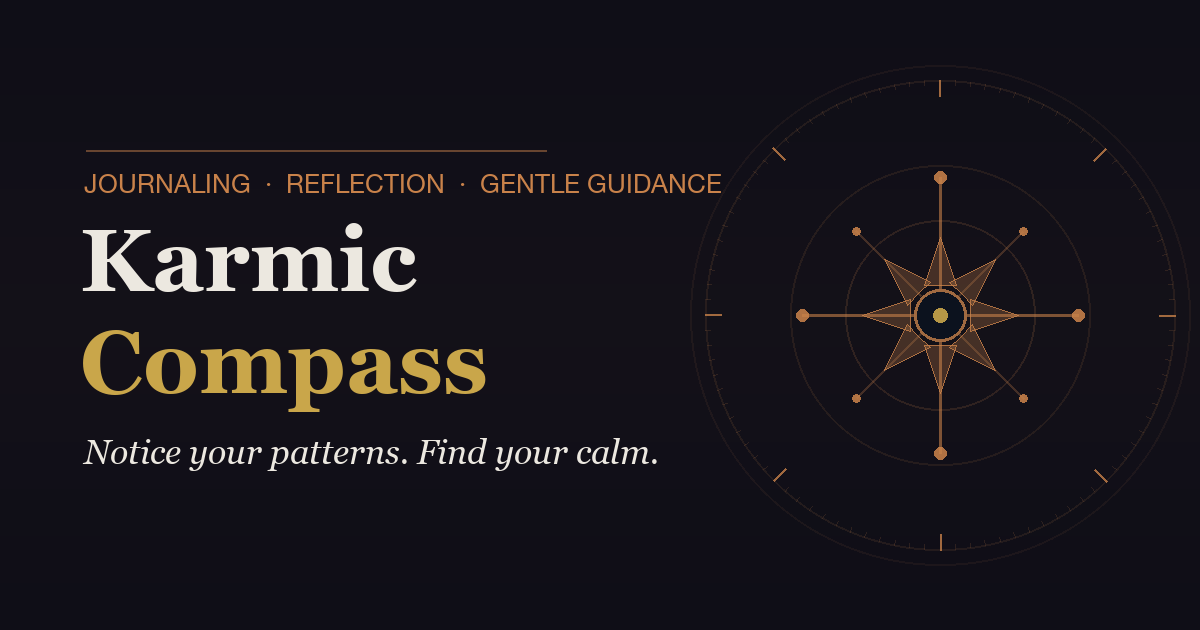
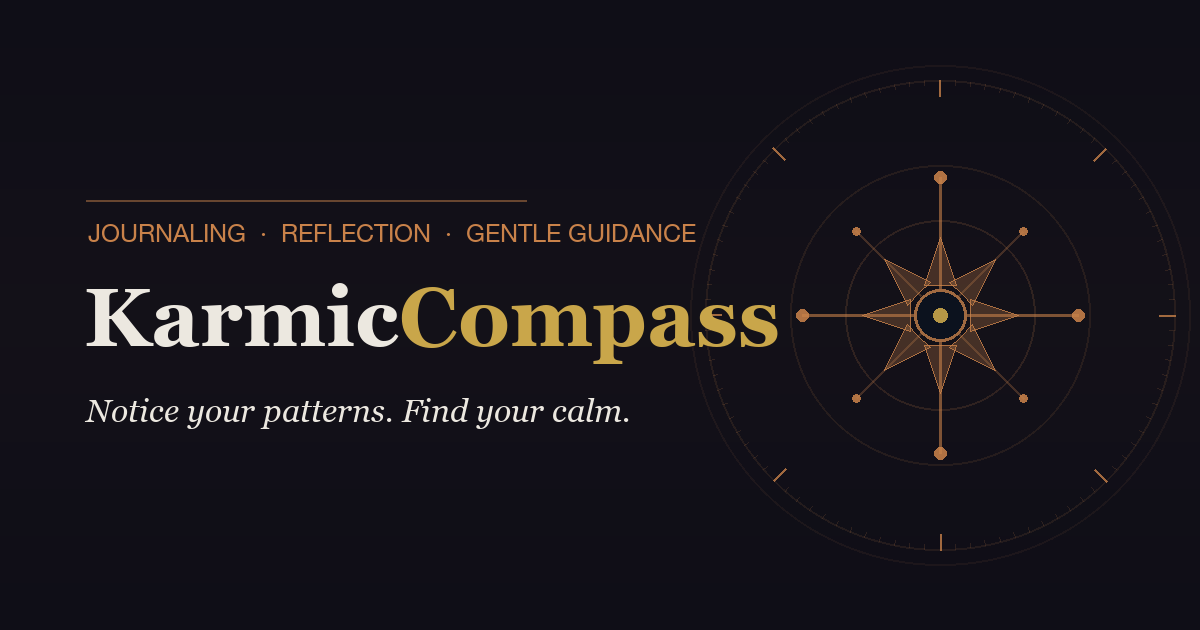
Standardise brand name to "KarmicCompass" (one word) (#9)
The app (app.config.js display name), legal entity (KarmicCompass
Private Limited), and in-app UI all use the one-word form; the
marketing site and legal docs used "Karmic Compass" with a space.
Renamed across 9 files (constants, metadata, copy, terms.html,
privacy.html) and regenerated the OG image wordmark to match.

Changed region(s): [[0.0617, 0.2714, 0.6475, 0.754], [0.0925, 0.2111, 0.4317, 0.2413]]

diff --git a/public/terms.html b/public/terms.html
@@ -72,7 +72,7 @@
 
   <div class="section">
     <p class="section-heading">1. Acceptance of Terms</p>
-    <p class="section-body">By downloading, installing, or using Karmic Compass ("the App"), you agree to be legally bound by these Terms &amp; Conditions ("Terms"). The App is operated by KarmicCompass Private Limited ("we", "us", or "our") and is available at karmiccompass.app. If you do not agree to these Terms in their entirety, you must immediately cease using the App and delete it from your device.
+    <p class="section-body">By downloading, installing, or using KarmicCompass ("the App"), you agree to be legally bound by these Terms &amp; Conditions ("Terms"). The App is operated by KarmicCompass Private Limited ("we", "us", or "our") and is available at karmiccompass.app. If you do not agree to these Terms in their entirety, you must immediately cease using the App and delete it from your device.
 
 These Terms, together with our Privacy Policy, constitute the entire and legally binding agreement between you and KarmicCompass Private Limited. "You" refers to the individual accessing or using the App.</p>
   </div>
@@ -163,12 +163,12 @@ Server-side rate limits apply to all tiers and cannot be bypassed by the client.
     <p class="section-heading">8. AI-Generated Content — Not Professional Advice</p>
     <p class="section-body">Arya is an AI-powered personal guide powered by Google's Gemini AI. All content Arya produces is for personal reflection and informational purposes only.
 
-Karmic Compass is NOT intended to diagnose, treat, cure, or prevent any physical or mental health condition or disease. Nothing in the App constitutes professional medical, psychiatric, psychological, therapeutic, legal, financial, or any other form of regulated advice. Never disregard professional advice or delay seeking it because of anything Arya has said.</p>
+KarmicCompass is NOT intended to diagnose, treat, cure, or prevent any physical or mental health condition or disease. Nothing in the App constitutes professional medical, psychiatric, psychological, therapeutic, legal, financial, or any other form of regulated advice. Never disregard professional advice or delay seeking it because of anything Arya has said.</p>
   </div>
 
   <div class="section">
     <p class="section-heading">9. Not a Medical or Crisis Service</p>
-    <p class="section-body">Karmic Compass is a personal wellness and self-reflection tool. It is NOT a crisis service, mental health treatment, emergency service, or substitute for professional care.
+    <p class="section-body">KarmicCompass is a personal wellness and self-reflection tool. It is NOT a crisis service, mental health treatment, emergency service, or substitute for professional care.
 
 The App includes a keyword-based safety feature that detects potential crisis-related language and responds with relevant helpline information. When triggered and you are not in Incognito Mode, a short excerpt of up to the first 100 characters of your message and a timestamp are stored in your cloud profile solely to provide contextually appropriate safety follow-up. This data is not shared with external agencies or emergency services.
 
@@ -299,7 +299,7 @@ Language: These Terms are made in English. In the event of conflict, the English
 
   <div class="section">
     <p class="section-heading">22. Service Availability &amp; Prohibited Jurisdictions</p>
-    <p class="section-body">Karmic Compass is intended to be available globally. However, we do not actively market to or operate in jurisdictions subject to comprehensive sanctions or export controls (including countries on OFAC, EU, UN, or UK sanctions lists). By using the App, you represent that you are not located in, or a national of, any such sanctioned jurisdiction.</p>
+    <p class="section-body">KarmicCompass is intended to be available globally. However, we do not actively market to or operate in jurisdictions subject to comprehensive sanctions or export controls (including countries on OFAC, EU, UN, or UK sanctions lists). By using the App, you represent that you are not located in, or a national of, any such sanctioned jurisdiction.</p>
   </div>
 
   <div class="section">

diff --git a/src/components/landing/sections/PricingSection.tsx b/src/components/landing/sections/PricingSection.tsx
@@ -80,7 +80,7 @@ export function PricingSection() {
                 <SmartExternalLink
                   href={APP_STORE_URL}
                   className="flex items-center justify-center gap-2 rounded-xl border border-white/[0.12] py-3 text-center text-sm font-medium text-white/60 transition hover:border-white/[0.2] hover:bg-white/[0.04] hover:text-white/85"
-                  label="Download Karmic Compass on the App Store"
+                  label="Download KarmicCompass on the App Store"
                 >
                   <svg width="11" height="13" viewBox="0 0 13 16" fill="currentColor" aria-hidden>
                     <path d="M10.94 8.53c-.02-2.09 1.71-3.1 1.79-3.15-1-1.44-2.54-1.64-3.09-1.66-1.31-.13-2.58.76-3.25.76-.67 0-1.69-.74-2.79-.72C2.16 3.78 .8 4.57.06 5.82-1.43 8.39-.41 12.18.99 14.07c.69.99 1.51 2.09 2.59 2.05 1.04-.04 1.43-.66 2.69-.66 1.26 0 1.61.66 2.7.64 1.12-.02 1.83-1 2.51-1.99.8-1.14 1.12-2.26 1.14-2.32-.02-.01-2.19-.85-2.69-3.29zM8.83 2.17C9.4 1.48 9.8.52 9.7-.5c-.87.04-1.92.58-2.54 1.27-.56.62-1.05 1.61-.92 2.55.97.08 1.96-.48 2.59-1.15z"/>
@@ -90,7 +90,7 @@ export function PricingSection() {
                 <SmartExternalLink
                   href={PLAY_STORE_URL}
                   className="flex items-center justify-center gap-2 rounded-xl border border-white/[0.12] py-3 text-center text-sm font-medium text-white/60 transition hover:border-white/[0.2] hover:bg-white/[0.04] hover:text-white/85"
-                  label="Download Karmic Compass on Google Play"
+                  label="Download KarmicCompass on Google Play"
                 >
                   <svg width="12" height="12" viewBox="0 0 24 24" fill="currentColor" aria-hidden>
                     <path d="M3.18 23.76c.37.2.8.2 1.2 0l11-6.35-2.84-2.84-9.36 9.19zM.5 1.58A1.5 1.5 0 000 2.75v18.5a1.5 1.5 0 00.5 1.17l.07.06 10.36-10.36v-.24L.57 1.52.5 1.58zM20.65 10.34l-2.96-1.71-3.18 3.18 3.18 3.18 2.99-1.73a1.51 1.51 0 000-2.92zM4.38.24L15.37 6.6l-2.84 2.84L3.18.24A1.35 1.35 0 014.38.24z"/>
@@ -137,7 +137,7 @@ export function PricingSection() {
                 <SmartExternalLink
                   href={APP_STORE_URL}
                   className="flex items-center justify-center gap-2 rounded-xl bg-[#C9824A] py-3 text-center text-sm font-semibold text-white shadow-[0_8px_32px_-8px_rgba(201,130,74,0.5)] transition hover:bg-[#D9925A]"
-                  label="Download Karmic Compass on the App Store"
+                  label="Download KarmicCompass on the App Store"
                 >
                   <svg width="11" height="13" viewBox="0 0 13 16" fill="currentColor" aria-hidden>
                     <path d="M10.94 8.53c-.02-2.09 1.71-3.1 1.79-3.15-1-1.44-2.54-1.64-3.09-1.66-1.31-.13-2.58.76-3.25.76-.67 0-1.69-.74-2.79-.72C2.16 3.78 .8 4.57.06 5.82-1.43 8.39-.41 12.18.99 14.07c.69.99 1.51 2.09 2.59 2.05 1.04-.04 1.43-.66 2.69-.66 1.26 0 1.61.66 2.7.64 1.12-.02 1.83-1 2.51-1.99.8-1.14 1.12-2.26 1.14-2.32-.02-.01-2.19-.85-2.69-3.29zM8.83 2.17C9.4 1.48 9.8.52 9.7-.5c-.87.04-1.92.58-2.54 1.27-.56.62-1.05 1.61-.92 2.55.97.08 1.96-.48 2.59-1.15z"/>
@@ -147,7 +147,7 @@ export function PricingSection() {
                 <SmartExternalLink
                   href={PLAY_STORE_URL}
                   className="flex items-center justify-center gap-2 rounded-xl bg-[#C9824A] py-3 text-center text-sm font-semibold text-white shadow-[0_8px_32px_-8px_rgba(201,130,74,0.5)] transition hover:bg-[#D9925A]"
-                  label="Download Karmic Compass on Google Play"
+                  label="Download KarmicCompass on Google Play"
                 >
                   <svg width="12" height="12" viewBox="0 0 24 24" fill="currentColor" aria-hidden>
                     <path d="M3.18 23.76c.37.2.8.2 1.2 0l11-6.35-2.84-2.84-9.36 9.19zM.5 1.58A1.5 1.5 0 000 2.75v18.5a1.5 1.5 0 00.5 1.17l.07.06 10.36-10.36v-.24L.57 1.52.5 1.58zM20.65 10.34l-2.96-1.71-3.18 3.18 3.18 3.18 2.99-1.73a1.51 1.51 0 000-2.92zM4.38.24L15.37 6.6l-2.84 2.84L3.18.24A1.35 1.35 0 014.38.24z"/>

diff --git a/public/privacy.html b/public/privacy.html
@@ -75,7 +75,7 @@
 
   <div class="section">
     <p class="section-heading">Plain-English Summary</p>
-    <p class="section-body">Karmic Compass is operated by KarmicCompass Private Limited. Here is what we collect, why, and how:
+    <p class="section-body">KarmicCompass is operated by KarmicCompass Private Limited. Here is what we collect, why, and how:
 
 • You give us: name, date of birth, gender, country, journal entries, chat messages, and optionally voice recordings and photos.
 • We generate: AI-powered insights, karma/dharma scores, astrological readings, quiz scores, and badges from your content.
@@ -280,7 +280,7 @@ Residual data in encrypted Google Cloud backups may persist for up to 90 days. S
 
   <div class="section">
     <p class="section-heading">12. International Data Transfers</p>
-    <p class="section-body">Karmic Compass uses cloud infrastructure primarily in the United States (Google Firebase, Cloud Run, Gemini API, Sentry, RevenueCat). Your data may be transferred to and processed in countries with different data protection standards.
+    <p class="section-body">KarmicCompass uses cloud infrastructure primarily in the United States (Google Firebase, Cloud Run, Gemini API, Sentry, RevenueCat). Your data may be transferred to and processed in countries with different data protection standards.
 
 Transfer safeguards:
 • EU / EEA &amp; UK: Google's Standard Contractual Clauses (SCCs) and adequacy decisions.

diff --git a/src/components/landing/sections/SiteFooterClient.tsx b/src/components/landing/sections/SiteFooterClient.tsx
@@ -52,14 +52,14 @@ export function FooterClientLinks({
         <SmartExternalLink
           href={xHref}
           className="text-left text-xs text-white/28 transition hover:text-white/55"
-          label="Follow Karmic Compass on X"
+          label="Follow KarmicCompass on X"
         >
           X
         </SmartExternalLink>
         <SmartExternalLink
           href={instagramHref}
           className="text-left text-xs text-white/28 transition hover:text-white/55"
-          label="Follow Karmic Compass on Instagram"
+          label="Follow KarmicCompass on Instagram"
         >
           Instagram
         </SmartExternalLink>

diff --git a/src/app/delete-account/page.tsx b/src/app/delete-account/page.tsx
@@ -17,7 +17,7 @@ import DeleteAccountForm from "./DeleteAccountForm";
 export const metadata: Metadata = {
     title: `Delete account — ${APP_NAME}`,
     description:
-        "Request permanent deletion of your Karmic Compass account and personal data.",
+        "Request permanent deletion of your KarmicCompass account and personal data.",
     robots: { index: true, follow: false },
 };
 

diff --git a/src/app/layout.tsx b/src/app/layout.tsx
@@ -27,7 +27,7 @@ const mono = DM_Mono({
 
 const SITE_URL = "https://karmiccompass.app";
 const DESCRIPTION =
-  "Karmic Compass helps you journal, notice patterns, and get calm AI mentor guidance. Built for privacy-conscious emotional wellness — not a substitute for care.";
+  "KarmicCompass helps you journal, notice patterns, and get calm AI mentor guidance. Built for privacy-conscious emotional wellness — not a substitute for care.";
 
 export const metadata: Metadata = {
   metadataBase: new URL(SITE_URL),

diff --git a/src/components/landing/sections/FAQSection.tsx b/src/components/landing/sections/FAQSection.tsx
@@ -8,7 +8,7 @@ import { SECTION_IDS } from "@/lib/constants";
 const FAQ_ITEMS = [
   {
     q: "Is this therapy or medical advice?",
-    a: "No. Karmic Compass is a self-reflection and journaling app. It does not provide medical, psychological, or crisis care. If you are in danger or need professional support, please contact qualified providers or emergency services in your area.",
+    a: "No. KarmicCompass is a self-reflection and journaling app. It does not provide medical, psychological, or crisis care. If you are in danger or need professional support, please contact qualified providers or emergency services in your area.",
   },
   {
     q: "What does \u201ckarma\u201d mean in the app?",

diff --git a/src/components/landing/sections/TrustSection.tsx b/src/components/landing/sections/TrustSection.tsx
@@ -50,7 +50,7 @@ const pillars = [
       </svg>
     ),
     t: "Honest, not therapeutic",
-    d: "Karmic Compass is a journaling and self-reflection tool. It is not a substitute for medical, psychological, or crisis care. If you need professional support, please reach out to a qualified provider.",
+    d: "KarmicCompass is a journaling and self-reflection tool. It is not a substitute for medical, psychological, or crisis care. If you need professional support, please reach out to a qualified provider.",
   },
   {
     icon: (

diff --git a/src/lib/constants.ts b/src/lib/constants.ts
@@ -1,4 +1,4 @@
-export const APP_NAME = "Karmic Compass" as const;
+export const APP_NAME = "KarmicCompass" as const;
 
 export const CONTACT_EMAIL = "[email redacted]" as const;
 export const MAILTO_CONTACT = `mailto:${CONTACT_EMAIL}` as const;